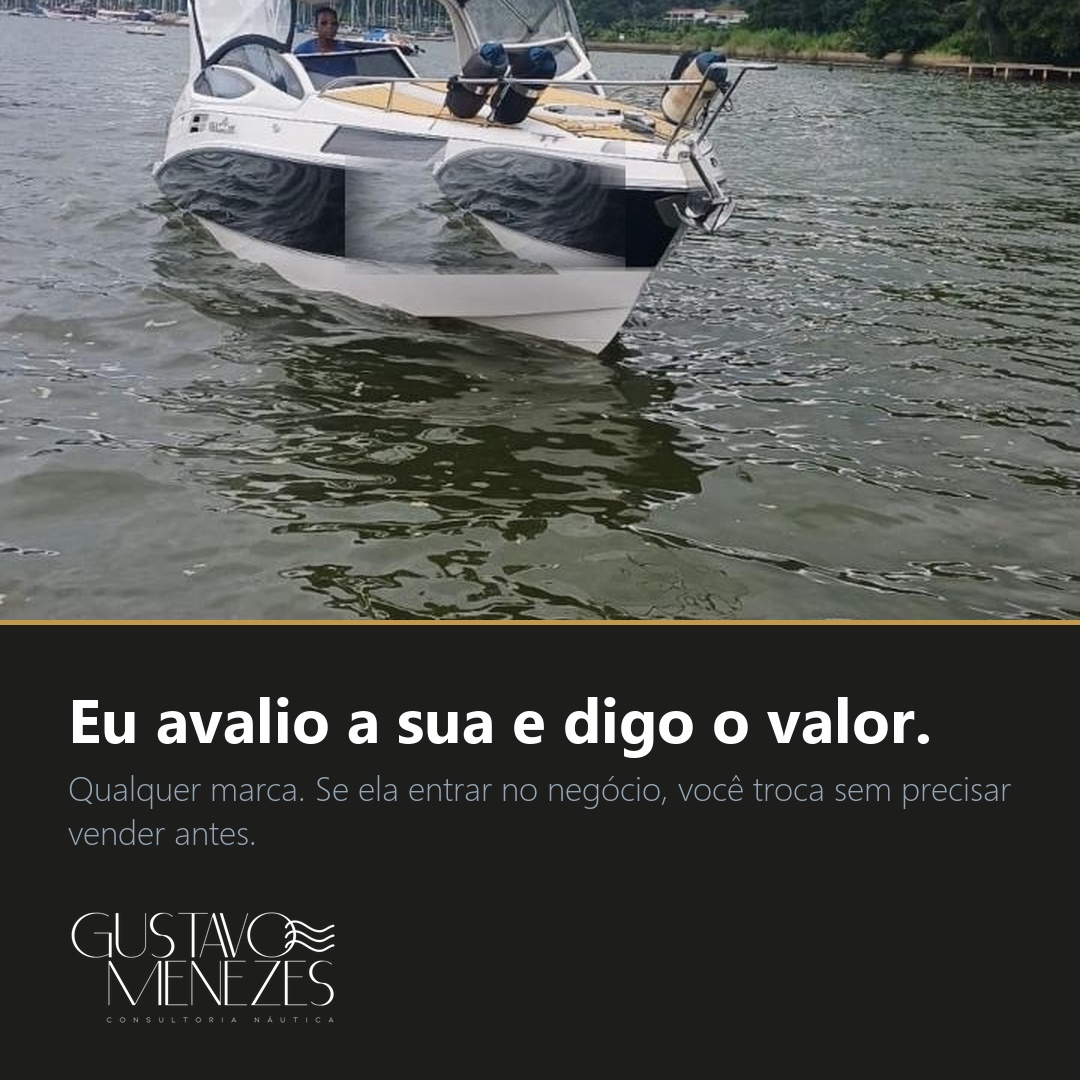
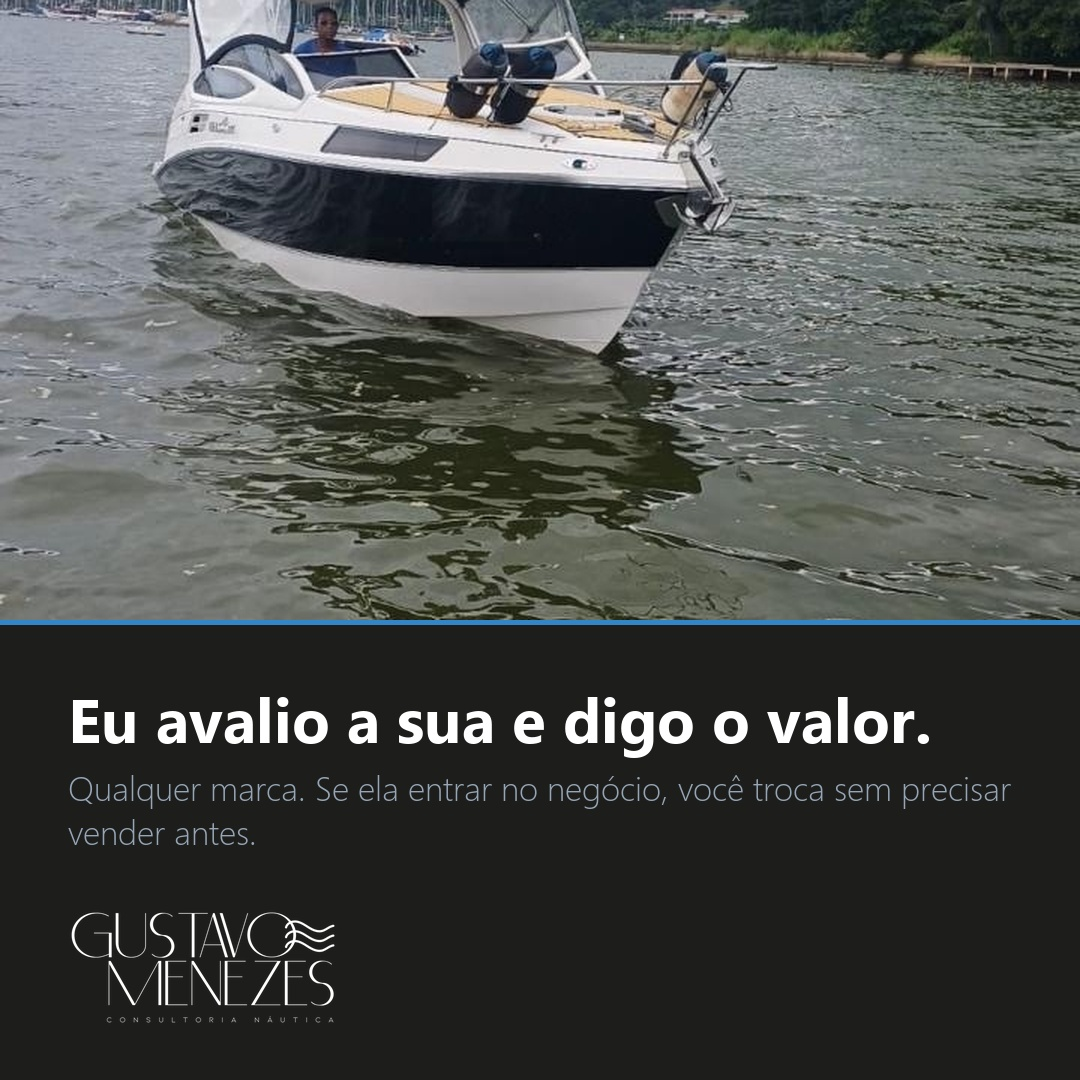
Add files via upload

Changed region(s): [[0.3056, 0.1222, 0.5806, 0.275], [0.0, 0.55, 1.0, 0.5806]]

diff --git a/REVISAO-DE-IMAGEM.md b/REVISAO-DE-IMAGEM.md
@@ -1,0 +1,62 @@
+# Revisão de imagem dos cards — 07/09/2026
+
+Auditoria feita card a card antes de ativar a C1. Três cards não podem subir do
+jeito que estão. Dois problemas eram meus e já estão corrigidos.
+
+## Corrigido por mim
+
+**Card 3 · Real 275** — a clonagem que apagava o nome "Tá Escrito" estava com a caixa
+larga demais e puxava a fonte de uma faixa errada. Resultado: um retângulo visível
+sobre a popa, com os capôs dos motores duplicados. Caixa reduzida ao nome e fonte de
+clone deslocada para o próprio costado preto. Agora não há emenda visível.
+
+**Card 1 · numeração de casco** — mesmo defeito, e a fonte de clone trazia junto as
+marcas de calado "0,80 / 0,60", que apareciam duplicadas. Corrigido.
+
+**Card de troca · cor de acento** — estava no dourado da marca antiga. Passou para o
+azul oficial `#3286c7`. Os cards de carrossel já estavam certos; o de troca ficou para trás.
+
+**NX 280 · numeração de casco** — deixada de propósito, e está anotado no script.
+A numeração dela fica numa faixa estreita de casco branco entre a almofada de proa e a
+faixa preta. Toda faixa vizinha que se clone traz almofada ou faixa junto e deixa
+remendo visível. Numeração pintada no casco é informação pública, aparece em qualquer
+foto de anúncio. Remendo aparente é pior que o número. O que não pode ir é o código
+interno de estoque no texto, e esse nunca entrou.
+
+## Precisa de decisão sua
+
+**Card 1 · NX 270 — o emblema do casco diz N280.** Ampliei para conferir: está escrito
+`N280`, não `N270`. A ficha do estoque diz NX 270 HMCB, 2014, 1.000h, R$ 250.000,
+Belém/PA. Ou a foto no painel está trocada, ou o modelo na ficha está errado.
+É o mesmo tipo de erro que já mapeamos no estoque (códigos internos cruzados: uma
+NX 270 com código "NX 370-156"). Anunciar 270 com foto de 280 é reclamação na certa e
+enfraquece justamente o argumento de procedência que o anúncio faz.
+
+*Preciso de:* confirmação do modelo, ou outra foto da unidade certa.
+
+**Card 2 · Focker 242 — quatro crianças na proa, rostos visíveis.** Não é clonável e
+não é decisão técnica. Sem autorização de uso de imagem por escrito dos responsáveis,
+não sobe. E o nome da embarcação, "SOUL HAPPY", continua legível no costado — ele fica
+sob as crianças, não dá para clonar sem estragar a foto.
+
+*Preciso de:* outra foto da unidade. É o caminho mais rápido.
+
+**Cards 3 e 5 · pessoas ao longe.** Real 275 tem uma pessoa ao leme, pequena; Solara 330
+tem duas ao fundo. São figuras distantes e de costas ou de perfil. Risco baixo, mas é
+chamada sua, não minha.
+
+## O que sobra pronto para subir
+
+| Card | Unidade | Situação |
+|---|---|---|
+| 3 | Real 275 · R$ 339 mil | pronto |
+| 4 | NX 280 Xtreme · R$ 579 mil | pronto |
+| 5 | Solara 330 Targa · R$ 590 mil | pronto |
+
+Três cards fazem um carrossel válido. O que se perde é a entrada: sem o card de
+R$ 250 mil, a faixa começa em R$ 339 mil e o gancho de "não começa em meio milhão"
+sai do ar.
+
+**A Solara 330 aparece duas vezes** — é a mesma foto do anúncio de troca. Os dois
+anúncios rodam nos mesmos conjuntos, para as mesmas pessoas. Não é impeditivo, mas
+enfraquece. Se o card 1 ou o 2 voltar, tiro a Solara do carrossel.
